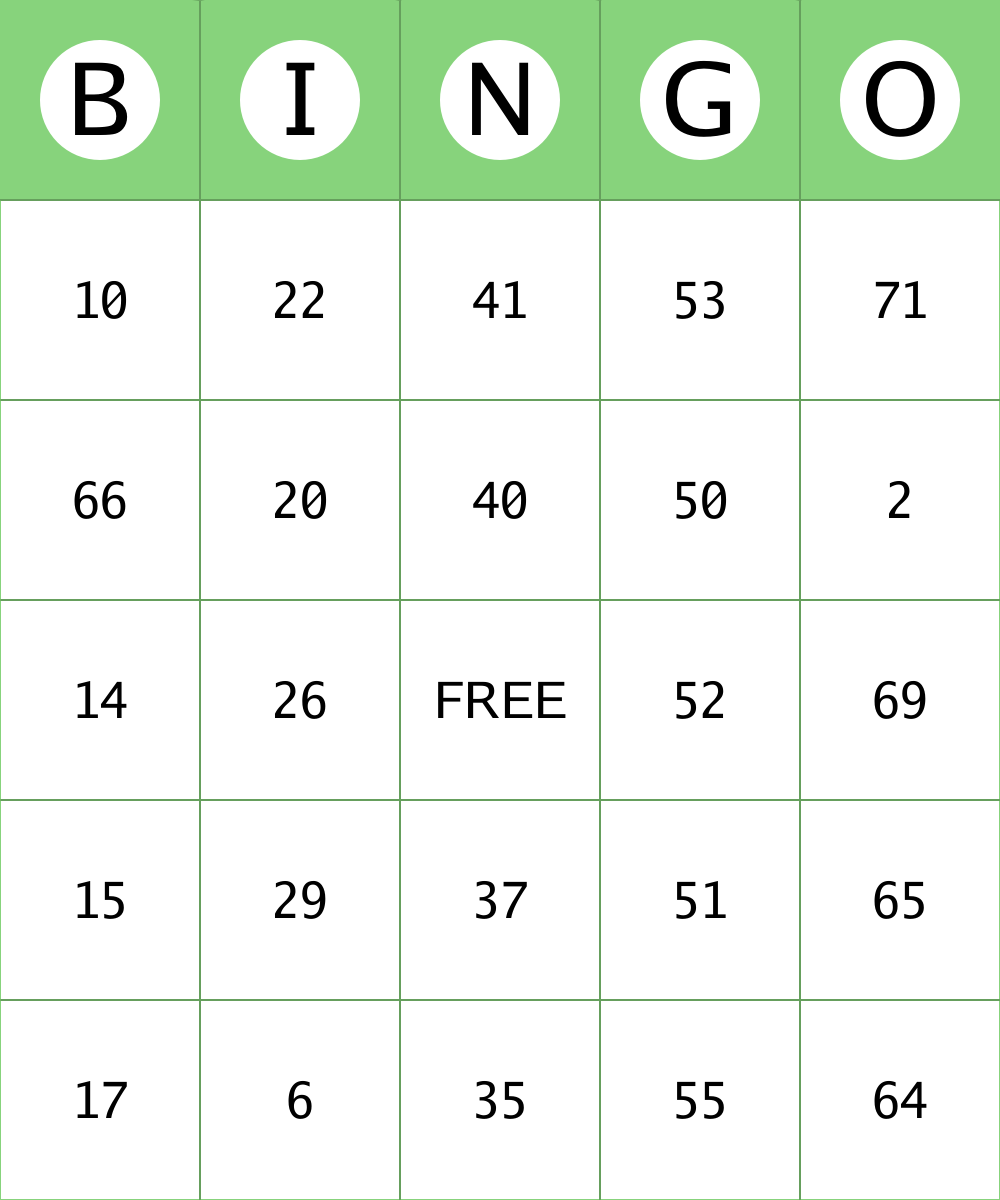
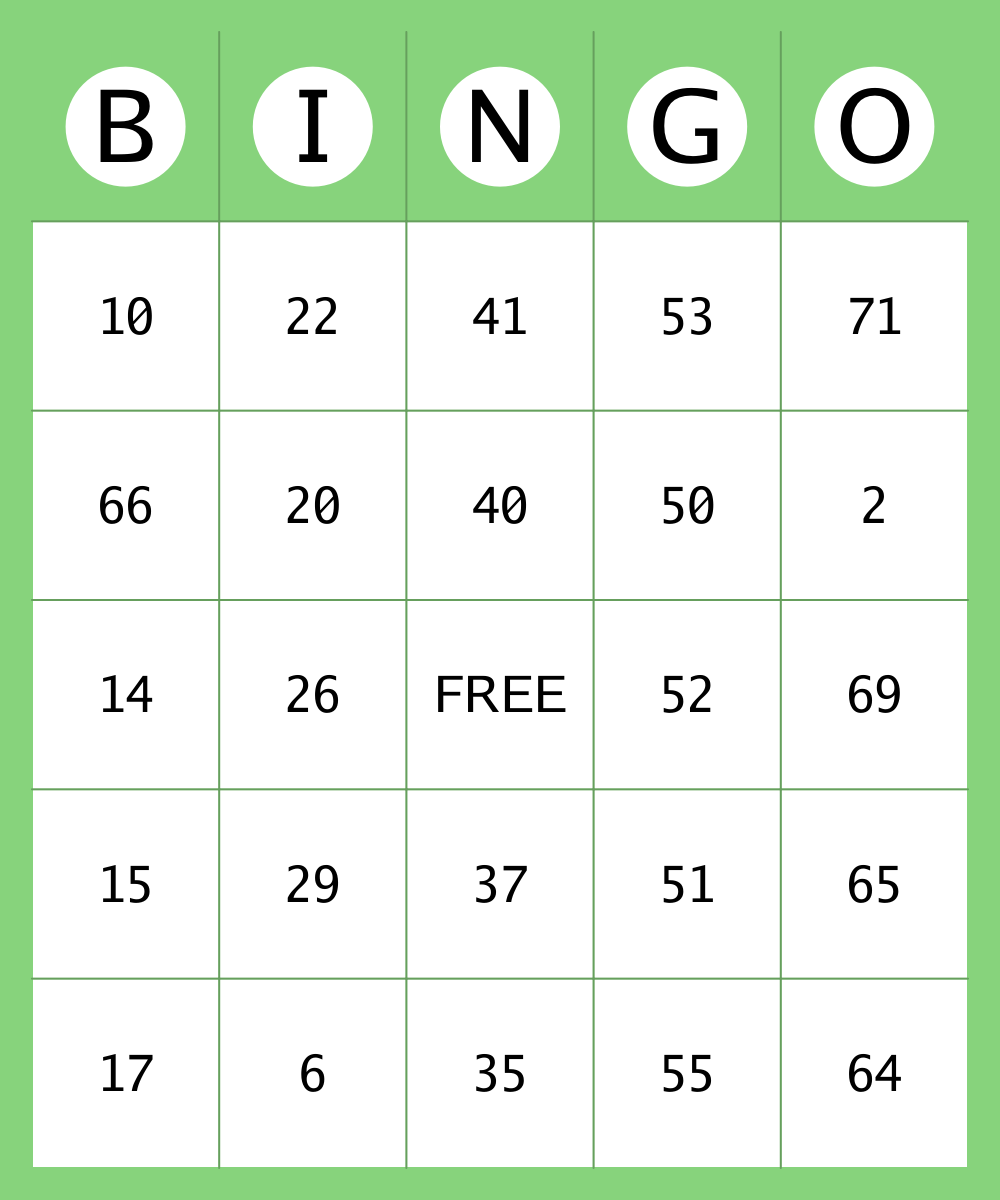
Clean up

diff --git a/gridder.go b/gridder.go
@@ -183,13 +183,15 @@ func (g *Gridder) DrawString(row int, column int, text string, stringConfigs ...
 }
 
 func (g *Gridder) paintBackground() {
+	padding := float64(g.imageConfig.GetPadding())
+	g.ctx.Translate(padding, padding)
 	g.ctx.SetColor(g.gridConfig.GetBackgroundColor())
 	g.ctx.Clear()
 }
 
 func (g *Gridder) paintGrid() {
-	imageWidth := float64(g.imageConfig.GetWidth())
-	imageHeight := float64(g.imageConfig.GetHeight())
+	canvasWidth := float64(g.imageConfig.GetCanvasWidth())
+	canvasHeight := float64(g.imageConfig.GetCanvasHeight())
 
 	cellWidth := g.getCellWidth()
 	cellHeight := g.getCellHeight()
@@ -198,14 +200,14 @@ func (g *Gridder) paintGrid() {
 	for i := 1.0; i < columns; i++ {
 		x := i * cellWidth
 		g.ctx.MoveTo(x, 0)
-		g.ctx.LineTo(x, imageHeight)
+		g.ctx.LineTo(x, canvasHeight)
 	}
 
 	rows := float64(g.gridConfig.GetRows())
 	for i := 1.0; i < rows; i++ {
 		y := i * cellHeight
 		g.ctx.MoveTo(0, y)
-		g.ctx.LineTo(imageWidth, y)
+		g.ctx.LineTo(canvasWidth, y)
 	}
 
 	dashes := g.gridConfig.GetLineDashes()
@@ -220,23 +222,23 @@ func (g *Gridder) paintGrid() {
 }
 
 func (g *Gridder) paintBorder() {
-	imageWidth := float64(g.imageConfig.GetWidth())
-	imageHeight := float64(g.imageConfig.GetHeight())
+	canvasWidth := float64(g.imageConfig.GetCanvasWidth())
+	canvasHeight := float64(g.imageConfig.GetCanvasHeight())
 
 	cellWidth := g.getCellWidth()
 	cellHeight := g.getCellHeight()
 
 	columns := float64(g.gridConfig.GetColumns())
 	g.ctx.MoveTo(0, 0)
-	g.ctx.LineTo(0, imageHeight)
+	g.ctx.LineTo(0, canvasHeight)
 	g.ctx.MoveTo(cellWidth*columns, 0)
-	g.ctx.LineTo(cellWidth*columns, imageHeight)
+	g.ctx.LineTo(cellWidth*columns, canvasHeight)
 
 	rows := float64(g.gridConfig.GetRows())
 	g.ctx.MoveTo(0, 0)
-	g.ctx.LineTo(imageWidth, 0)
+	g.ctx.LineTo(canvasWidth, 0)
 	g.ctx.MoveTo(0, cellHeight*rows)
-	g.ctx.LineTo(imageWidth, cellHeight*rows)
+	g.ctx.LineTo(canvasWidth, cellHeight*rows)
 
 	dashes := g.gridConfig.GetBorderDashes()
 	if dashes > 0 {
@@ -250,11 +252,11 @@ func (g *Gridder) paintBorder() {
 }
 
 func (g *Gridder) getCellWidth() float64 {
-	return float64(g.imageConfig.GetWidth()) / float64(g.gridConfig.GetColumns())
+	return float64(g.imageConfig.GetCanvasWidth()) / float64(g.gridConfig.GetColumns())
 }
 
 func (g *Gridder) getCellHeight() float64 {
-	return float64(g.imageConfig.GetHeight()) / float64(g.gridConfig.GetRows())
+	return float64(g.imageConfig.GetCanvasHeight()) / float64(g.gridConfig.GetRows())
 }
 
 func (g *Gridder) getCellCenter(row, column int) (*gg.Point, error) {
@@ -264,11 +266,11 @@ func (g *Gridder) getCellCenter(row, column int) (*gg.Point, error) {
 	cellWidth := g.getCellWidth()
 	cellHeight := g.getCellHeight()
 
-	imageWidth := float64(g.imageConfig.GetWidth())
-	imageHeight := float64(g.imageConfig.GetHeight())
+	canvasWidth := float64(g.imageConfig.GetCanvasWidth())
+	canvasHeight := float64(g.imageConfig.GetCanvasHeight())
 
-	x := float64(column)*(imageWidth/columns) + cellWidth/2
-	y := float64(row)*(imageHeight/rows) + cellHeight/2
+	x := float64(column)*(canvasWidth/columns) + cellWidth/2
+	y := float64(row)*(canvasHeight/rows) + cellHeight/2
 	return &gg.Point{X: x, Y: y}, nil
 }
 

diff --git a/config.go b/config.go
@@ -3,7 +3,7 @@ package gridder
 import "image/color"
 
 const (
-	defaultGridPadding           = 32
+	defaultGridPadding           = 0
 	defaultGridWidth             = 500 * 2
 	defaultGridHeight            = 500
 	defaultGridLineStrokeWidth   = 2
@@ -36,7 +36,7 @@ var (
 type ImageConfig struct {
 	Width   int
 	Height  int
-	Padding float64
+	Padding int
 	Name    string
 }
 
@@ -56,9 +56,19 @@ func (g *ImageConfig) GetHeight() int {
 	return g.Height
 }
 
+// GetCanvasWidth gets canvas width
+func (g *ImageConfig) GetCanvasWidth() int {
+	return g.GetWidth() - g.GetPadding()*2
+}
+
+// GetCanvasHeight gets canvas height
+func (g *ImageConfig) GetCanvasHeight() int {
+	return g.GetHeight() - g.GetPadding()*2
+}
+
 // GetPadding gets image padding
-func (g *ImageConfig) GetPadding() float64 {
-	if g.Padding <= 0 {
+func (g *ImageConfig) GetPadding() int {
+	if g.Padding < 0 {
 		return defaultGridPadding
 	}
 	return g.Padding

diff --git a/examples/example3/example3.go b/examples/example3/example3.go
@@ -14,9 +14,10 @@ func main() {
 		Name:   "example3.png",
 	}
 	gridConfig := gridder.GridConfig{
-		Rows:            4,
-		Columns:         4,
-		LineStrokeWidth: 2,
+		Rows:              4,
+		Columns:           4,
+		LineStrokeWidth:   2,
+		BorderStrokeWidth: 4,
 	}
 
 	grid, err := gridder.New(imageConfig, gridConfig)

diff --git a/examples/example4/example4.go b/examples/example4/example4.go
@@ -14,9 +14,10 @@ func main() {
 		Name:   "example4.png",
 	}
 	gridConfig := gridder.GridConfig{
-		Rows:            4,
-		Columns:         4,
-		LineStrokeWidth: 2,
+		Rows:              4,
+		Columns:           4,
+		LineStrokeWidth:   2,
+		BorderStrokeWidth: 4,
 	}
 
 	grid, err := gridder.New(imageConfig, gridConfig)

diff --git a/examples/example5/example5.go b/examples/example5/example5.go
@@ -14,9 +14,10 @@ func main() {
 		Name:   "example5.png",
 	}
 	gridConfig := gridder.GridConfig{
-		Rows:            4,
-		Columns:         4,
-		LineStrokeWidth: 2,
+		Rows:              4,
+		Columns:           4,
+		LineStrokeWidth:   2,
+		BorderStrokeWidth: 4,
 	}
 
 	grid, err := gridder.New(imageConfig, gridConfig)

diff --git a/examples/example6/example6.go b/examples/example6/example6.go
@@ -14,9 +14,10 @@ func main() {
 		Name:   "example6.png",
 	}
 	gridConfig := gridder.GridConfig{
-		Rows:            4,
-		Columns:         4,
-		LineStrokeWidth: 2,
+		Rows:              4,
+		Columns:           4,
+		LineStrokeWidth:   2,
+		BorderStrokeWidth: 4,
 	}
 
 	grid, err := gridder.New(imageConfig, gridConfig)

diff --git a/examples/example7/example7.go b/examples/example7/example7.go
@@ -14,9 +14,10 @@ func main() {
 		Name:   "example7.png",
 	}
 	gridConfig := gridder.GridConfig{
-		Rows:            4,
-		Columns:         4,
-		LineStrokeWidth: 2,
+		Rows:              4,
+		Columns:           4,
+		LineStrokeWidth:   2,
+		BorderStrokeWidth: 4,
 	}
 
 	grid, err := gridder.New(imageConfig, gridConfig)

diff --git a/examples/example8/example8.go b/examples/example8/example8.go
@@ -9,9 +9,10 @@ import (
 
 func main() {
 	imageConfig := gridder.ImageConfig{
-		Width:  2000,
-		Height: 1000,
-		Name:   "example8.png",
+		Width:   2000,
+		Height:  1000,
+		Padding: 32,
+		Name:    "example8.png",
 	}
 	gridConfig := gridder.GridConfig{
 		Rows:              4,

diff --git a/examples/example9/example9.go b/examples/example9/example9.go
@@ -9,9 +9,10 @@ import (
 
 func main() {
 	imageConfig := gridder.ImageConfig{
-		Width:  1000,
-		Height: 1200,
-		Name:   "example9.png",
+		Width:   1000,
+		Height:  1200,
+		Padding: 32,
+		Name:    "example9.png",
 	}
 	gridConfig := gridder.GridConfig{
 		Rows:            6,

diff --git a/examples/example1/example1.go b/examples/example1/example1.go
@@ -14,7 +14,7 @@ func main() {
 		Columns:           8,
 		LineDashes:        0,
 		LineStrokeWidth:   2,
-		BorderStrokeWidth: 8,
+		BorderStrokeWidth: 0,
 		LineColor:         color.Gray{},
 		BorderColor:       color.Gray{},
 		BackgroundColor:   color.White,

diff --git a/examples/example2/example2.go b/examples/example2/example2.go
@@ -11,7 +11,7 @@ func main() {
 	imageConfig := gridder.ImageConfig{
 		Width:   500,
 		Height:  500,
-		Padding: 200,
+		Padding: 20,
 		Name:    "example2.png",
 	}
 	gridConfig := gridder.GridConfig{
